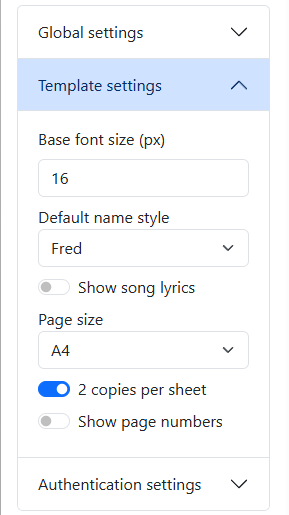
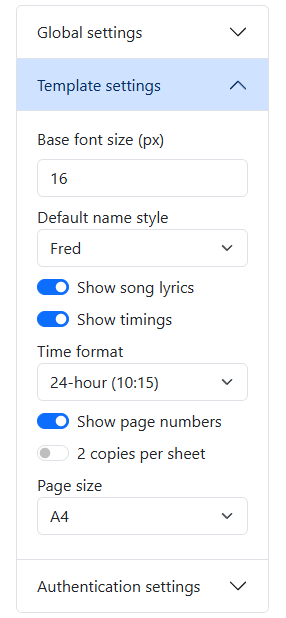
Update screenshot and notes on Template settings.

diff --git a/docs/usage.md b/docs/usage.md
@@ -72,6 +72,9 @@ The **Default name style** drop-down lets you choose how you would like names to
 The **Show song lyrics** option does not apply to all templates - it would not make sense to include this with the
 **Outline Running Order** template, for example.
 
+And the **show timings** option, likewise, does not apply to all templates - it would not make sense to include this
+with the **Song Lyrics** template.
+
 You can choose the base font size, the output page size, select whether you would like two copies per sheet (we use this to create
 A5 orders of service using the "outline running order" template), and whether page numbers should be included.
 
